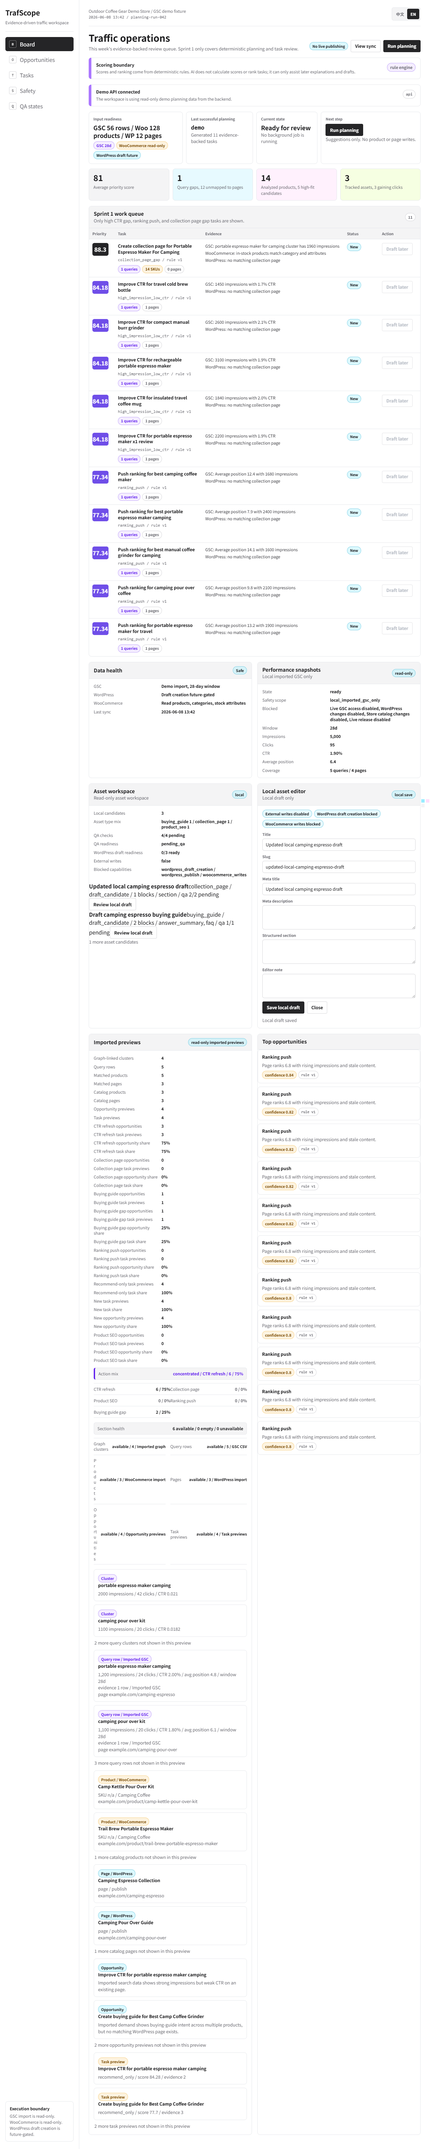
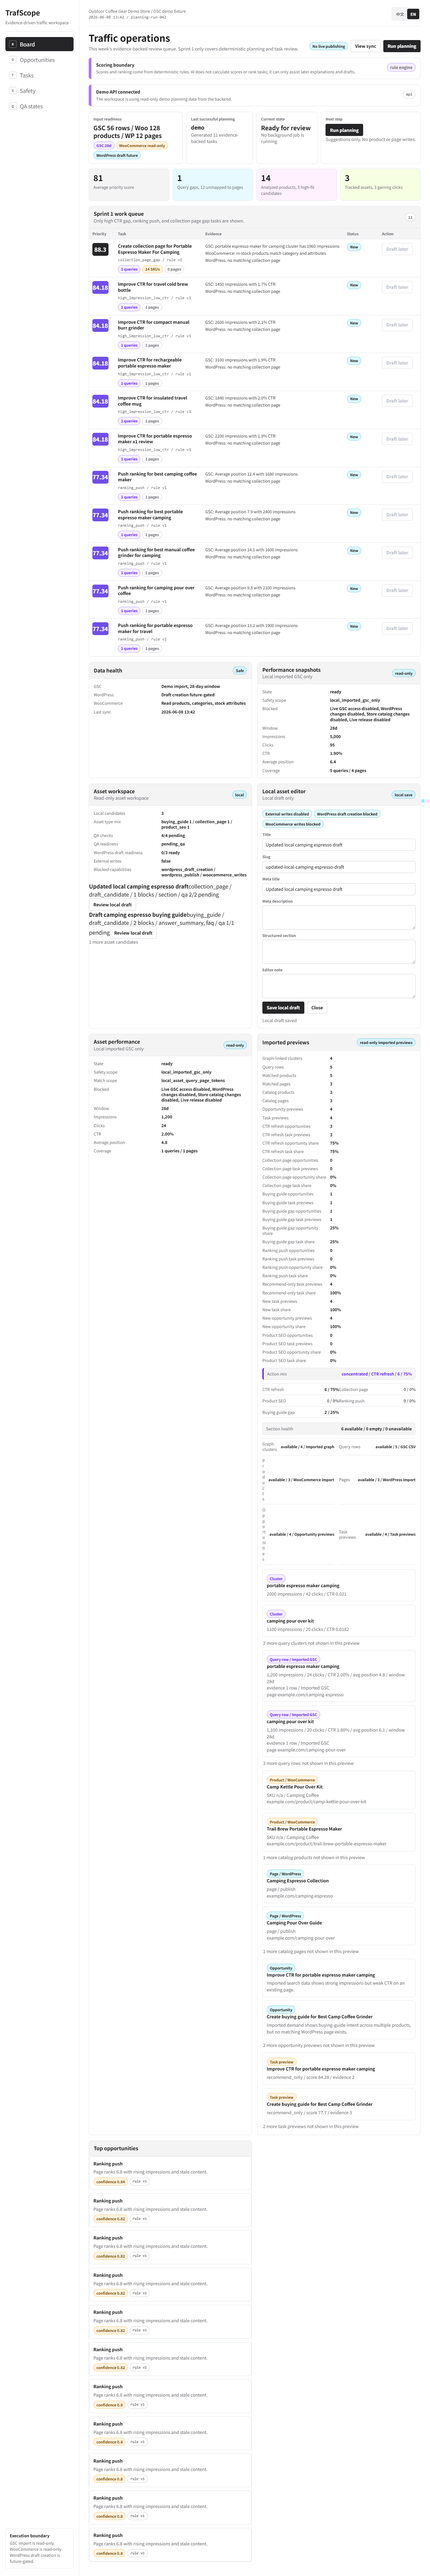
Add visible asset performance panel

diff --git a/apps/web/app/App.tsx b/apps/web/app/App.tsx
@@ -7,6 +7,7 @@ import { localizeTaskTitle } from "../components/tasks/task-copy";
 import {
   getAuditLogs,
   getAssets,
+  getAssetPerformanceSnapshots,
   getImportedGraph,
   getImportedPages,
   getImportedProducts,
@@ -39,6 +40,7 @@ import {
 import { createTaskDetailViewModel } from "../lib/task-detail";
 import {
   mapApiAuditLogsToEvidenceRows,
+  mapApiAssetPerformanceSnapshotsToPreviews,
   mapApiAssetResponseToPreview,
   mapApiAssetWorkspaceToPreviews,
   mapApiImportedGraphToClusterPreviews,
@@ -98,6 +100,13 @@ type AssetSaveFeedback = {
 } | null;
 
 type PerformanceSnapshotState = {
+  availability: "empty" | "ready" | "unavailable";
+  blockedCapabilities: string[];
+  snapshots: PerformanceSnapshotPreview[];
+};
+
+type AssetPerformanceState = {
+  assetId: string | null;
   availability: "empty" | "ready" | "unavailable";
   blockedCapabilities: string[];
   snapshots: PerformanceSnapshotPreview[];
@@ -250,6 +259,12 @@ export function App() {
     wordpressDraftTotalCount: 0
   });
   const [performanceSnapshots, setPerformanceSnapshots] = useState<PerformanceSnapshotState>({
+    availability: "empty",
+    blockedCapabilities: ["real_gsc_oauth"],
+    snapshots: []
+  });
+  const [assetPerformance, setAssetPerformance] = useState<AssetPerformanceState>({
+    assetId: null,
     availability: "empty",
     blockedCapabilities: ["real_gsc_oauth"],
     snapshots: []
@@ -704,14 +719,50 @@ export function App() {
 
   function openAssetEditor(assetId: string) {
     assetEditorSessionRef.current += 1;
+    const editorSession = assetEditorSessionRef.current;
     setAssetSaveFeedback(null);
     setSelectedAssetId(assetId);
+    setAssetPerformance({
+      assetId,
+      availability: "empty",
+      blockedCapabilities: ["real_gsc_oauth"],
+      snapshots: []
+    });
+
+    if (!isApiBoardEnabled()) return;
+
+    getAssetPerformanceSnapshots(demoStoreId, assetId)
+      .then((response) => {
+        if (assetEditorSessionRef.current !== editorSession) return;
+        const snapshots = mapApiAssetPerformanceSnapshotsToPreviews(response);
+        setAssetPerformance({
+          assetId,
+          availability: snapshots.length > 0 ? "ready" : "empty",
+          blockedCapabilities: response.blocked_capabilities ?? ["real_gsc_oauth"],
+          snapshots
+        });
+      })
+      .catch(() => {
+        if (assetEditorSessionRef.current !== editorSession) return;
+        setAssetPerformance({
+          assetId,
+          availability: "unavailable",
+          blockedCapabilities: ["performance_snapshots_unavailable"],
+          snapshots: []
+        });
+      });
   }
 
   function closeAssetEditor() {
     assetEditorSessionRef.current += 1;
     setSelectedAssetId(null);
     setAssetSaveFeedback(null);
+    setAssetPerformance({
+      assetId: null,
+      availability: "empty",
+      blockedCapabilities: ["real_gsc_oauth"],
+      snapshots: []
+    });
   }
 
   return (
@@ -734,6 +785,7 @@ export function App() {
               setScreen("task");
             }}
             onSaveAsset={saveLocalAssetDraft}
+            assetPerformance={assetPerformance}
             performanceSnapshots={performanceSnapshots}
             selectedAssetId={selectedAssetId}
             t={t}
@@ -863,6 +915,7 @@ function LanguageSwitcher({ locale, setLocale }: { locale: Locale; setLocale: (l
 }
 
 function TrafficOperationsPage({
+  assetPerformance,
   assetWorkspace,
   assetSaveFeedback,
   board,
@@ -877,6 +930,7 @@ function TrafficOperationsPage({
   selectedAssetId,
   t
 }: SharedProps & {
+  assetPerformance: AssetPerformanceState;
   assetWorkspace: AssetWorkspaceState;
   assetSaveFeedback: AssetSaveFeedback;
   board: BoardViewModel;
@@ -1008,13 +1062,16 @@ function TrafficOperationsPage({
           <PerformanceSnapshotPanel locale={locale} performanceSnapshots={performanceSnapshots} />
           <AssetWorkspacePanel assetWorkspace={assetWorkspace} locale={locale} onOpenAssetEditor={onOpenAssetEditor} />
           {selectedAsset && (
-            <LocalAssetEditor
-              asset={selectedAsset}
-              feedback={assetSaveFeedback?.assetId === selectedAsset.id ? assetSaveFeedback : null}
-              locale={locale}
-              onClose={onCloseAssetEditor}
-              onSave={onSaveAsset}
-            />
+            <>
+              <LocalAssetEditor
+                asset={selectedAsset}
+                feedback={assetSaveFeedback?.assetId === selectedAsset.id ? assetSaveFeedback : null}
+                locale={locale}
+                onClose={onCloseAssetEditor}
+                onSave={onSaveAsset}
+              />
+              <AssetPerformancePanel assetPerformance={assetPerformance} assetId={selectedAsset.id} locale={locale} />
+            </>
           )}
           <ImportedPreviewPanel importedPreviews={importedPreviews} locale={locale} />
           <OpportunityRail opportunities={board.opportunities} locale={locale} t={t} />
@@ -1421,6 +1478,137 @@ function AssetWorkspacePanel({
             : "No local asset candidates yet."}
         </p>
       )}
+    </section>
+  );
+}
+
+function AssetPerformancePanel({
+  assetId,
+  assetPerformance,
+  locale
+}: {
+  assetId: string;
+  assetPerformance: AssetPerformanceState;
+  locale: Locale;
+}) {
+  const primarySnapshot = assetPerformance.assetId === assetId ? assetPerformance.snapshots[0] ?? null : null;
+  const availability = assetPerformance.assetId === assetId ? assetPerformance.availability : "empty";
+  const blockedCapabilities =
+    assetPerformance.assetId === assetId && assetPerformance.blockedCapabilities.length > 0
+      ? assetPerformance.blockedCapabilities
+      : ["real_gsc_oauth"];
+  const blockedCapabilityCopy = blockedCapabilities
+    .map((capability) => formatPerformanceBlockedCapability(capability, locale))
+    .join(", ");
+  const copy =
+    locale === "zh"
+      ? {
+          averagePosition: "平均排名",
+          blocked: "已禁用",
+          clicks: "点击",
+          coverage: "覆盖",
+          empty: "暂无本地资产表现快照",
+          impressions: "曝光",
+          matchScope: "匹配范围",
+          pages: "个页面",
+          queries: "个查询",
+          readOnly: "只读",
+          safetyScope: "安全范围",
+          state: "状态",
+          subtitle: "仅本地导入 GSC",
+          title: "资产表现",
+          unavailable: "资产表现不可用",
+          window: "窗口"
+        }
+      : {
+          averagePosition: "Average position",
+          blocked: "Blocked",
+          clicks: "Clicks",
+          coverage: "Coverage",
+          empty: "No local asset performance snapshot yet",
+          impressions: "Impressions",
+          matchScope: "Match scope",
+          pages: "pages",
+          queries: "queries",
+          readOnly: "read-only",
+          safetyScope: "Safety scope",
+          state: "State",
+          subtitle: "Local imported GSC only",
+          title: "Asset performance",
+          unavailable: "Asset performance unavailable",
+          window: "Window"
+        };
+  const coverageCopy = `${primarySnapshot?.queryCount ?? 0} ${copy.queries} / ${
+    primarySnapshot?.pageCount ?? 0
+  } ${copy.pages}`;
+
+  return (
+    <section
+      className="panel asset-performance-panel"
+      data-asset-id={assetId}
+      data-asset-performance-count={primarySnapshot ? 1 : 0}
+      data-asset-performance-state={availability}
+      data-external-write-allowed="false"
+      data-safety-scope="local_imported_gsc_only"
+    >
+      <div className="panel-heading">
+        <div>
+          <h2>{copy.title}</h2>
+          <p className="muted">{copy.subtitle}</p>
+        </div>
+        <span className="status safe">{copy.readOnly}</span>
+      </div>
+      <div className="kv-list">
+        <div className="kv-row">
+          <span>{copy.state}</span>
+          <strong>{availability}</strong>
+        </div>
+        <div className="kv-row">
+          <span>{copy.safetyScope}</span>
+          <strong>local_imported_gsc_only</strong>
+        </div>
+        <div className="kv-row">
+          <span>{copy.matchScope}</span>
+          <strong>{primarySnapshot?.matchScope ?? "local_asset_query_page_tokens"}</strong>
+        </div>
+        <div className="kv-row">
+          <span>{copy.blocked}</span>
+          <strong>{blockedCapabilityCopy}</strong>
+        </div>
+        {primarySnapshot ? (
+          <>
+            <div className="kv-row" data-asset-performance-metric="window">
+              <span>{copy.window}</span>
+              <strong>{primarySnapshot.window}</strong>
+            </div>
+            <div className="kv-row" data-asset-performance-metric="impressions">
+              <span>{copy.impressions}</span>
+              <strong>{primarySnapshot.displayImpressions}</strong>
+            </div>
+            <div className="kv-row" data-asset-performance-metric="clicks">
+              <span>{copy.clicks}</span>
+              <strong>{primarySnapshot.displayClicks}</strong>
+            </div>
+            <div className="kv-row" data-asset-performance-metric="ctr">
+              <span>CTR</span>
+              <strong>{primarySnapshot.displayCtr}</strong>
+            </div>
+            <div className="kv-row" data-asset-performance-metric="position">
+              <span>{copy.averagePosition}</span>
+              <strong>{primarySnapshot.displayPosition}</strong>
+            </div>
+            <div className="kv-row" data-asset-performance-metric="coverage">
+              <span>{copy.coverage}</span>
+              <strong>{coverageCopy}</strong>
+            </div>
+          </>
+        ) : (
+          <div className="kv-row" data-asset-performance-empty-state="true">
+            <span>{copy.title}</span>
+            <strong>{availability === "unavailable" ? copy.unavailable : copy.empty}</strong>
+          </div>
+        )}
+      </div>
     </section>
   );
 }

diff --git a/docs/automation-task-board.md b/docs/automation-task-board.md
@@ -4,7 +4,7 @@ Date: 2026-06-08
 
 This board is the execution source of truth for the current sprint builder loop. Work proceeds from the highest-priority incomplete item that is not blocked.
 
-Current loop: Sprint 3 frontend asset performance client contract is verified. Live integration work remains blocked on credentials and boundary approval. Scope stays safe: local/demo/imported data only, no real GSC OAuth, no WooCommerce writes, and no WordPress publishing.
+Current loop: Sprint 3 visible asset performance UI is verified. Live integration work remains blocked on credentials and boundary approval. Scope stays safe: local/demo/imported data only, no real GSC OAuth, no WooCommerce writes, and no WordPress publishing.
 
 ## Status Legend
 
@@ -221,6 +221,7 @@ These are internal execution-board statuses, not TrafScope product task review s
 | TASK-S3-QA-053 | 187 | done | Frontend Product Engineer / QA Lead | Add performance snapshot empty/unavailable DOM diagnostics. | Browser smoke verifies empty and unavailable performance snapshot panel states expose stable local-only DOM diagnostics, issue no non-GET performance requests, and render no refresh, sync, credential, WordPress draft/page update, publish, navigation, or commerce-write controls. |
 | TASK-S3-PERF-054 | 188 | done | Backend/API Engineer / QA Lead | Add asset-specific performance matching API foundation. | `GET /assets/{asset_id}/performance` returns local imported GSC snapshots matched to a local asset draft by safe title/slug/meta/query/page tokens, returns 404 for unknown assets, and exposes no refresh, OAuth, credential, WordPress draft/page update, publish, or commerce-write behavior. |
 | TASK-S3-FE-055 | 189 | done | Frontend Product Engineer / QA Lead | Add frontend asset performance client contract. | Frontend API client and view-model adapters expose read-only local asset performance snapshot helpers, encode store/asset ids, clamp external writes and safety scope, and add no refresh, OAuth, credential, WordPress draft/page update, publish, sync, navigation, or commerce-write controls. |
+| TASK-S3-FE-056 | 190 | done | Frontend Product Engineer / UI Systems Engineer / QA Lead | Add visible asset-specific performance UI panel. | Opening a local asset editor reads local asset performance snapshots with GET, renders a compact read-only asset performance panel with local imported GSC metrics and match-scope diagnostics, and exposes no refresh, sync, credential, WordPress draft/page update, publish, navigation, or commerce-write controls. |
 
 ## Blockers
 
@@ -588,6 +589,7 @@ These are internal execution-board statuses, not TrafScope product task review s
 - Performance snapshot empty/unavailable diagnostics are verified by red-green browser smoke coverage that first failed on a missing `data-performance-empty-state-key`, then passed with stable empty and unavailable keys while keeping performance reads GET-only and free of refresh, sync, credential, draft, publish, navigation, and commerce-write controls.
 - Asset-specific performance matching API foundation is verified by red-green backend tests that first failed on the stubbed asset performance route and missing service, then passed with local token-matched imported GSC snapshots, empty unmatched assets, unknown-asset 404s, and no external write capability.
 - Frontend asset performance client contract is verified by red-green contract and fixture tests that first failed on the missing helper and adapter, then passed with encoded GET-only asset performance reads, local-only match-scope clamping, imported GSC source copy, and no refresh, OAuth, credential, draft, publish, sync, navigation, or commerce-write helpers.
+- Visible asset-specific performance UI is verified by red-green static and browser coverage that opens a local asset editor, reads `/assets/{asset_id}/performance` exactly once with GET, renders local imported GSC metrics and `local_asset_query_page_tokens` diagnostics, and keeps refresh, sync, credential, draft, publish, navigation, and commerce-write controls absent.
 
 ## Completion Rule
 

diff --git a/docs/sprint-3-performance-snapshot-ui-contract.md b/docs/sprint-3-performance-snapshot-ui-contract.md
@@ -84,9 +84,9 @@ Implemented foundation:
 - Browser smoke verifies empty and unavailable states expose stable `data-performance-empty-state-key` diagnostics while keeping `/performance` GET-only and free of refresh, sync, credential, publish, draft, and commerce-write controls.
 - Backend `GET /assets/{asset_id}/performance` returns local-only imported GSC snapshots matched to local asset draft title, slug, and meta tokens; unknown local assets return 404 and unmatched assets return an empty local-only payload.
 - Frontend API client exposes `getAssetPerformanceSnapshots`; frontend adapter maps asset performance payloads through `mapApiAssetPerformanceSnapshotsToPreviews`, clamps `externalWriteAllowed` to `false`, clamps `matchScope` to `local_asset_query_page_tokens`, and keeps raw live/source fields hidden.
+- Visible local asset editor UI renders a read-only asset performance panel after a safe GET to `/assets/{asset_id}/performance`, showing local imported GSC metrics and match-scope diagnostics without refresh, sync, credential, WordPress, publish, navigation, or commerce-write controls.
 
 Still gated:
 
-- Visible asset-specific performance matching UI.
 - Before/after comparison UI.
 - Live GSC OAuth or refresh.
